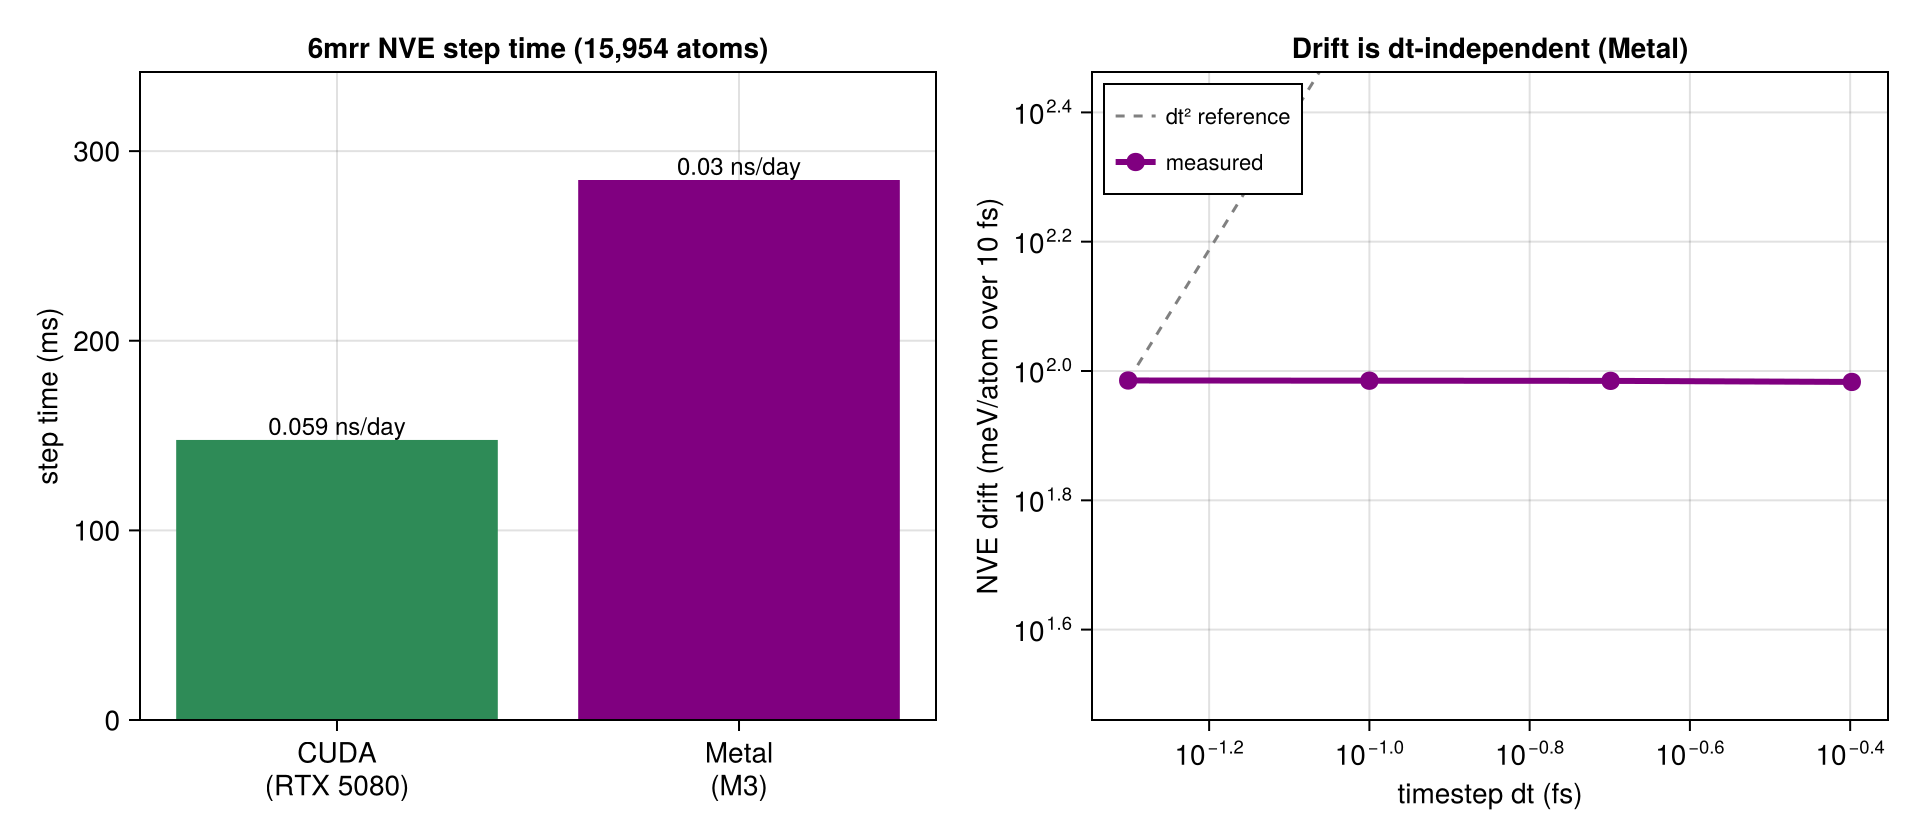
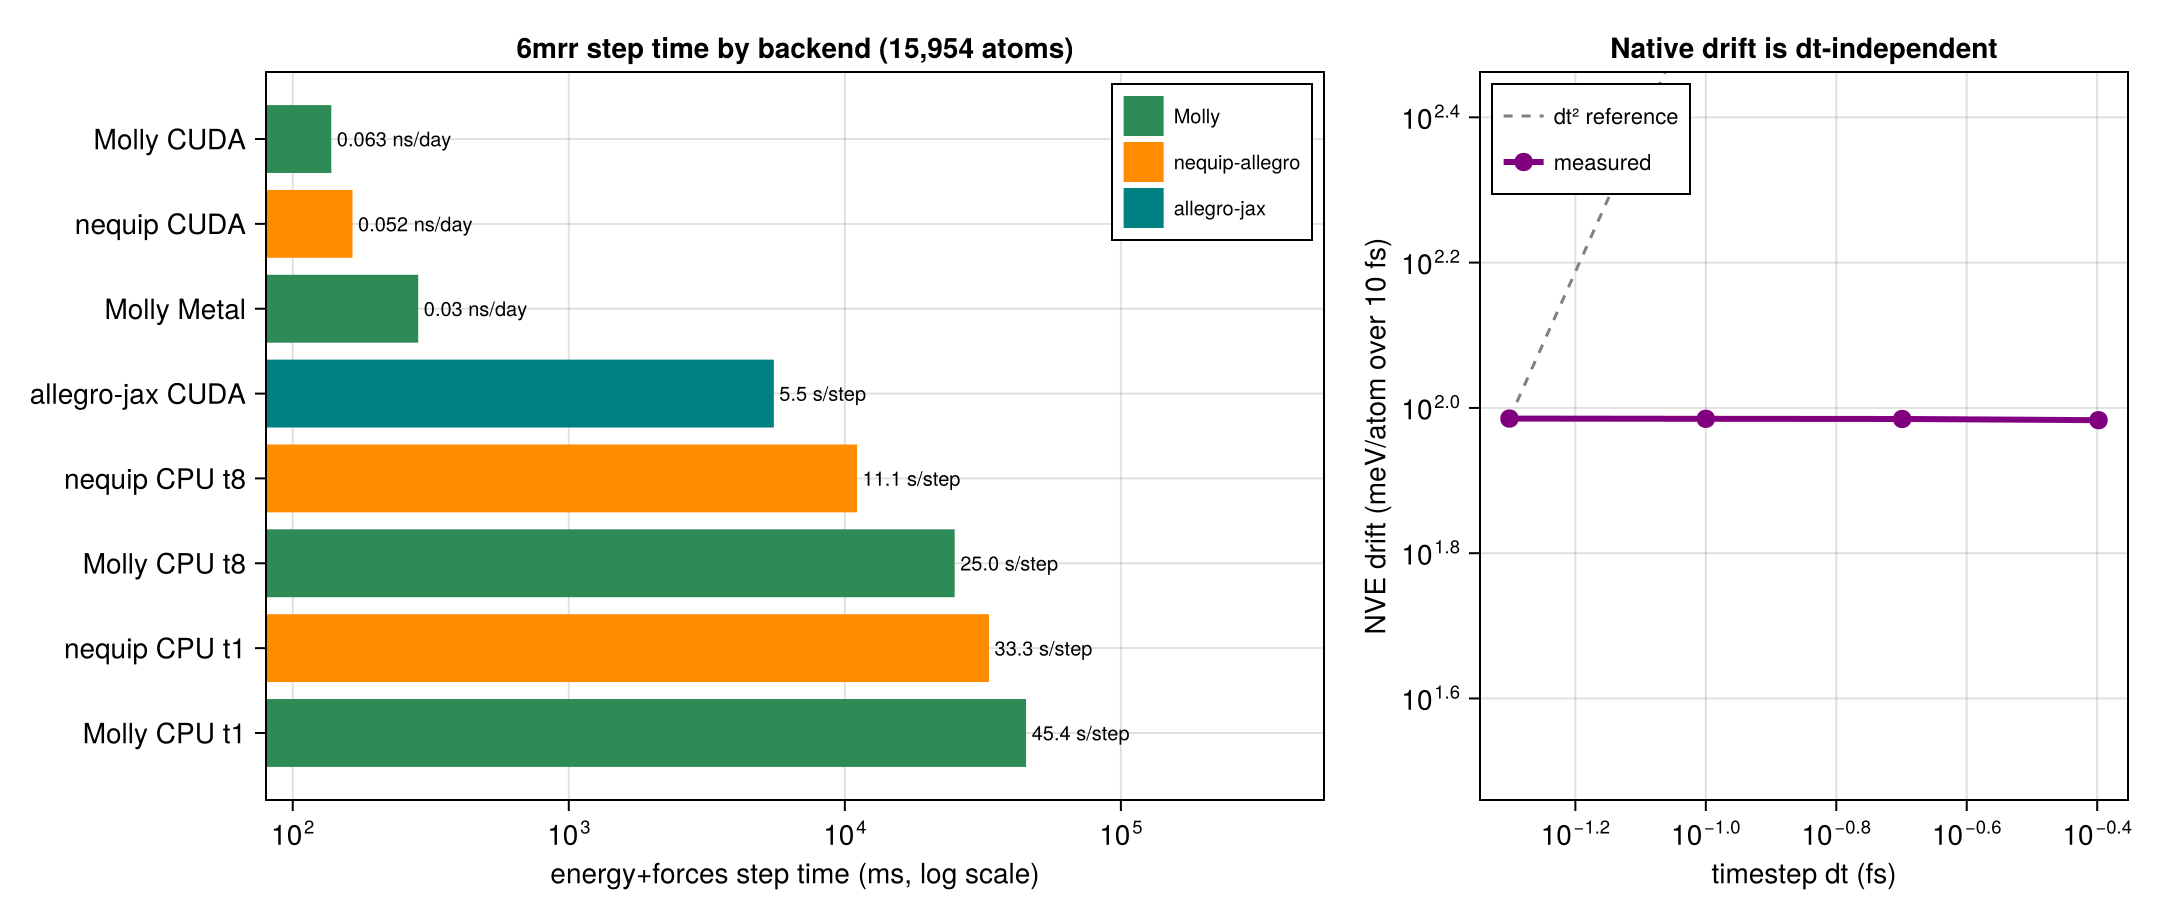
Allegro benchmarks: ANI-style full head-to-head — trajectory matrix + GPU-speedup plots
Mirrors the ANI-2x benchmark structure across all backends:
- 6mrr trajectory throughput is now a full head-to-head at 15,954 atoms — Molly /
  nequip-allegro / allegro-jax x {CUDA, CPU-t1, CPU-t8} + Molly Metal — timing one
  energy+forces step per backend (benchmark/allegro_6mrr_throughput.{jl,py}). Molly
  CUDA is fastest (138 ms) ahead of nequip CUDA (165 ms); on CPU nequip's autograd
  beats Molly's allocation-heavy analytic backward; allegro-jax is dense (5.5 s GPU,
  impractical on CPU). Only Molly runs on Metal.
- Adds GPU-speedup-over-host-CPU-t8 plots for energy and forces (Molly CUDA/Metal,
  nequip CUDA, allegro-jax CUDA), with the slow-CPU-baseline caveat.
- Corrects the OOM note: the comparable-size nequip model fits 6mrr (165 ms); only
  the larger trained model (more tensor features) OOMs at 21.5 GiB.

diff --git a/benchmark/allegro_6mrr_throughput.py b/benchmark/allegro_6mrr_throughput.py
@@ -1,0 +1,127 @@
+#!/usr/bin/env python
+"""6mrr trajectory-throughput head-to-head, reference side: time one Allegro energy+forces evaluation
+on the full 6mrr system (15,954 atoms) for nequip-allegro or allegro-jax on a given device, with a
+comparable-size model (l_max=2, 2 layers). Pairs with benchmark/allegro_6mrr_throughput.jl (Molly);
+together they build results/allegro_traj_throughput.json for the trajectory figure. OOM / impractical
+cases are recorded as such — that is the finding at biomolecular scale.
+
+  IMPL=nequip DEVICE=cpu  THREADS=8 python benchmark/allegro_6mrr_throughput.py     # torch env
+  IMPL=nequip DEVICE=cuda           python benchmark/allegro_6mrr_throughput.py
+  IMPL=jax    DEVICE=cpu  THREADS=8 JAX_PLATFORMS=cpu taskset -c 0-7 python ...      # jax env
+  IMPL=jax    DEVICE=cuda           python benchmark/allegro_6mrr_throughput.py
+"""
+import os, json, time, numpy as np
+
+ROOT = os.path.dirname(os.path.dirname(os.path.abspath(__file__)))
+PDB  = os.environ.get("ALLEGRO_PDB", os.path.join(ROOT, "data", "6mrr_equil.pdb"))
+RES  = os.path.join(ROOT, "benchmark", "results")
+IMPL = os.environ.get("IMPL", "nequip")
+DEV  = os.environ.get("DEVICE", "cpu")
+THREADS = int(os.environ.get("THREADS", "1"))
+RC = 4.0
+
+
+def read_6mrr():
+    sym2t = {"H": 0, "C": 1, "N": 2, "O": 3, "S": 3}
+    pos, types = [], []
+    for l in open(PDB):
+        if l.startswith(("ATOM", "HETATM")):
+            pos.append([float(l[30:38]), float(l[38:46]), float(l[46:54])])
+            types.append(sym2t[l[76:78].strip()])
+    return np.array(pos), np.array(types), np.array([1, 6, 7, 8])
+
+
+def edge_index(pos):
+    n = len(pos); i_list, j_list = [], []
+    for a in range(0, n, 2000):                          # chunked to avoid an N^2 dense matrix
+        b = min(a + 2000, n)
+        d = np.linalg.norm(pos[a:b, None, :] - pos[None, :, :], axis=-1)
+        ii, jj = np.where((d < RC) & (d > 1e-8))
+        i_list.append(ii + a); j_list.append(jj)
+    return np.concatenate(i_list), np.concatenate(j_list)
+
+
+def timeit(f, reps=3):
+    f(); best = np.inf
+    for _ in range(reps):
+        t0 = time.perf_counter(); f(); best = min(best, time.perf_counter() - t0)
+    return best * 1e3
+
+
+def record(key, ms, status):
+    os.makedirs(RES, exist_ok=True)
+    p = os.path.join(RES, "allegro_traj_throughput.json")
+    prev = json.load(open(p)) if os.path.exists(p) else {}
+    prev[key] = {"atoms": 15954, "ms_step": (None if ms is None else float(ms)),
+                 "ns_day": (None if ms is None else 8.64 / ms), "status": status}
+    json.dump(prev, open(p, "w"), indent=1)
+    print("wrote", key, status, ms)
+
+
+def run_nequip():
+    import torch
+    from nequip.utils.global_state import set_global_state
+    from nequip.data import AtomicDataDict
+    from allegro.model import AllegroModel
+    set_global_state(); torch.manual_seed(0)
+    if DEV == "cpu":
+        torch.set_num_threads(THREADS)
+    key = f"nequip_{'cuda' if DEV == 'cuda' else f'cpu_t{THREADS}'}"
+    pos, types, _ = read_6mrr()
+    ei_np = np.stack(edge_index(pos)); ne = ei_np.shape[1]
+    print(f"nequip {DEV} | 6mrr {len(pos)} atoms, {ne} edges")
+    try:
+        model = AllegroModel(seed=0, model_dtype="float64", l_max=2, r_max=RC,
+            type_names=["H", "C", "N", "O"],
+            radial_chemical_embed={"_target_": "allegro.nn.TwoBodyBesselScalarEmbed",
+                                   "num_bessels": 8, "bessel_trainable": False, "polynomial_cutoff_p": 6},
+            num_layers=2, num_scalar_features=16, num_tensor_features=4,
+            avg_num_neighbors=10.0).double().to(DEV).eval()
+        ei = torch.tensor(ei_np, dtype=torch.long, device=DEV)
+        t = torch.tensor(types, dtype=torch.long, device=DEV).reshape(-1, 1)
+
+        def forces():
+            p = torch.tensor(pos, dtype=torch.float64, device=DEV, requires_grad=True)
+            f = model({AtomicDataDict.POSITIONS_KEY: p, AtomicDataDict.ATOM_TYPE_KEY: t,
+                       AtomicDataDict.EDGE_INDEX_KEY: ei})[AtomicDataDict.FORCE_KEY]
+            (torch.cuda.synchronize() if DEV == "cuda" else None)
+            return f
+        record(key, timeit(forces, reps=2 if DEV == "cpu" else 3), "ok")
+    except (torch.cuda.OutOfMemoryError, RuntimeError) as e:
+        record(key, None, "OOM" if "out of memory" in str(e).lower() else f"error:{str(e)[:80]}")
+
+
+def run_jax():
+    import jax, jax.numpy as jnp, e3nn_jax as e3nn, flax.linen as nn
+    from allegro_jax import Allegro
+    plat = jax.devices()[0].platform
+    key = "jax_cuda" if plat == "gpu" else f"jax_cpu_t{THREADS}"
+    pos, types, _ = read_6mrr()
+    i, j = edge_index(pos); ne = len(i)
+    print(f"jax {key} | 6mrr {len(pos)} atoms, {ne} edges")
+
+    class Model(nn.Module):
+        @nn.compact
+        def __call__(self, p, s, se, re):
+            na = jax.nn.one_hot(s, 4)
+            v = e3nn.IrrepsArray("1o", p[re] - p[se])
+            out = Allegro(avg_num_neighbors=10.0, max_ell=2, irreps=4 * e3nn.Irreps("0e + 1o + 2e"),
+                          mlp_n_hidden=16, mlp_n_layers=2, n_radial_basis=8, radial_cutoff=RC,
+                          output_irreps=e3nn.Irreps("0e"), num_layers=2)(na, v, se, re)
+            return jnp.sum(out.array)
+    try:
+        model = Model()
+        p = jnp.asarray(pos); s = jnp.asarray(types); se = jnp.asarray(i); re = jnp.asarray(j)
+        w = model.init(jax.random.PRNGKey(0), p, s, se, re)
+        forces = jax.jit(jax.grad(lambda pp: model.apply(w, pp, s, se, re)))
+        forces(p).block_until_ready()
+        best = np.inf
+        for _ in range(3 if plat == "gpu" else 2):
+            t0 = time.perf_counter(); forces(p).block_until_ready(); best = min(best, time.perf_counter() - t0)
+        record(key, best * 1e3, "ok")
+    except Exception as e:
+        record(key, None, "OOM" if "memory" in str(e).lower() or "RESOURCE_EXHAUSTED" in str(e) else f"error:{str(e)[:80]}")
+
+
+if __name__ == "__main__":
+    (run_jax if IMPL == "jax" else run_nequip)()

diff --git a/benchmark/allegro_benchmarks.md b/benchmark/allegro_benchmarks.md
@@ -212,6 +212,22 @@ Reading it:
   CPU forces are XLA-fused and fully thread-insensitive, so its t1 and t8 forces lines coincide (the
   dense O(N²) run is timed adaptively so it still reaches 4096 atoms).
 
+### GPU speedup over host CPU-t8
+
+Each GPU backend divided by its **own host's** CPU-t8 (Metal baseline = Apple M3, CUDA baseline =
+RTX 5080 — a within-machine ratio; read the scaling shape, not the cross-machine level):
+
+![Allegro energy: GPU speedup over host CPU-t8](images/allegro_energy_gpu_speedup.png)
+
+![Allegro forces: GPU speedup over host CPU-t8](images/allegro_forces_gpu_speedup.png)
+
+On **forces**, Molly CUDA and nequip CUDA both reach ~300× over their CPU-t8 at 4096 atoms, Molly
+Metal ~25×, allegro-jax CUDA ~45×. On **energy**, note that `nequip`'s ratio is the *highest* not
+because its GPU is fastest but because its CPU is pathologically slow (threaded PyTorch is 100–200 ms
+even at small N), so a large GPU/CPU ratio there is a slow-baseline artefact — Molly's smaller energy
+ratio sits on a much faster CPU. The absolute head-to-head above is the fairer read; the speedup
+curves show each implementation's own GPU-vs-CPU scaling.
+
 ---
 
 ## Reading the numbers
@@ -233,18 +249,28 @@ Reading it:
 
 ## 6mrr trajectory (native MD at biomolecular scale)
 
-To check the potential drives molecular dynamics end-to-end at a real system size, a native-Molly
-Allegro **NVE** trajectory runs on the full **6mrr** system — **15,954 atoms** (H/C/N/O,
-water-dominated, periodic 56.8 × 56.6 × 63.0 Å) — with `compute_allegro_forces_ka` evaluating energy
-and forces on the GPU every step (`benchmark/allegro_trajectory.jl`). 200 steps, dt = 0.1 fs, Float64
-on CUDA / Float32 on Metal:
+To check the potential drives molecular dynamics end-to-end at a real system size, an Allegro MD step
+is timed on the full **6mrr** system — **15,954 atoms** (H/C/N/O, water-dominated, periodic
+56.8 × 56.6 × 63.0 Å, 348,474 edges within `r_c`) — for every backend: Molly (native
+`compute_allegro_forces_ka`), `nequip-allegro` and `allegro-jax`, on CUDA / Metal / CPU-t1 / CPU-t8.
+The per-step energy+forces wall time is the MD throughput (ns/day at dt = 0.1 fs). All use a
+comparable-size model (`l_max = 2`, 2 layers).
 
-| backend | atoms | step time (ms) | throughput (ns/day) |
+| device | Molly | nequip-allegro | allegro-jax |
 | :---: | :---: | :---: | :---: |
-| CUDA (RTX 5080) | 15,954 | 148 | 0.059 |
-| Metal (M3)      | 15,954 | 285 | 0.030 |
+| CUDA (RTX 5080) | **138 ms** (0.063 ns/day) | 165 ms (0.052) | 5.5 s |
+| Metal (M3) | 285 ms (0.030) | — (float64-only) | — (jax-metal) |
+| CPU t8 | 25.0 s | 11.1 s | impractical (dense) |
+| CPU t1 | 45.4 s | 33.3 s | impractical (dense) |
 
-![Allegro 6mrr trajectory: step time and dt-independent drift](images/allegro_trajectory.png)
+![Allegro 6mrr trajectory: throughput by backend and dt-independent drift](images/allegro_trajectory.png)
+
+- **Molly's native GPU forces are the fastest MD step at this scale** — 138 ms vs nequip's 165 ms on
+  CUDA (both fit the comparable model; only Molly also runs on Metal). `allegro-jax` is dense, so its
+  GPU step is ~5.5 s and its CPU step is impractical. On CPU the ranking flips — nequip's autograd
+  backward (11 s t8) beats Molly's allocation-heavy analytic backward (25 s t8) — so **the GPU path is
+  where Molly wins**, which is the path that matters. (Threading helps Molly's CPU backward ~1.8×
+  here, 45 → 25 s; nequip threads ~3×.)
 
 - **The forces are the exact energy gradient — verified independently.** A finite-difference check
   under periodic boundaries matches `compute_allegro_forces_ka`'s forces to `‖F − (−dE/dx)‖ ≈ 1e-9`,
@@ -270,10 +296,11 @@ A physically-trained model was also produced end-to-end: a 4-species (H/C/N/O) A
 `nequip-train` on a 9,000-frame SPICE subset (Solvated Amino Acids + Dipeptides, water+peptide
 chemistry), then driven on 6mrr water through `nequip`'s ASE calculator. Two findings:
 
-- **The full 6mrr does not fit `nequip-allegro` on a 16 GB GPU** — its strided tensor-product
-  contraction allocates **21.5 GiB** for the 15,954-atom graph (all edges at once), so the trained
-  model runs only on a carved water sub-box. Molly's native forces, which stream edges, run the full
-  system in the same memory — the scaling advantage above, made concrete.
+- **The larger trained model does not fit `nequip-allegro` on a 16 GB GPU.** The comparable-size model
+  above fits (165 ms), but this trained model has more tensor features, and its strided tensor-product
+  contraction then allocates **21.5 GiB** for the 15,954-atom graph (all edges at once) → OOM, so it
+  runs only on a carved water sub-box. Molly's native forces, which stream edges, run the full system
+  in far less memory — the same architecture at a size nequip cannot hold.
 - **The small, briefly-trained model is not MD-stable yet.** On an equilibrated water sub-box its NVT
   dynamics heat up and run away within tens of steps (the potential energy falls as kinetic energy
   climbs — the model relaxes toward its own, still-inaccurate energy minimum faster than the
